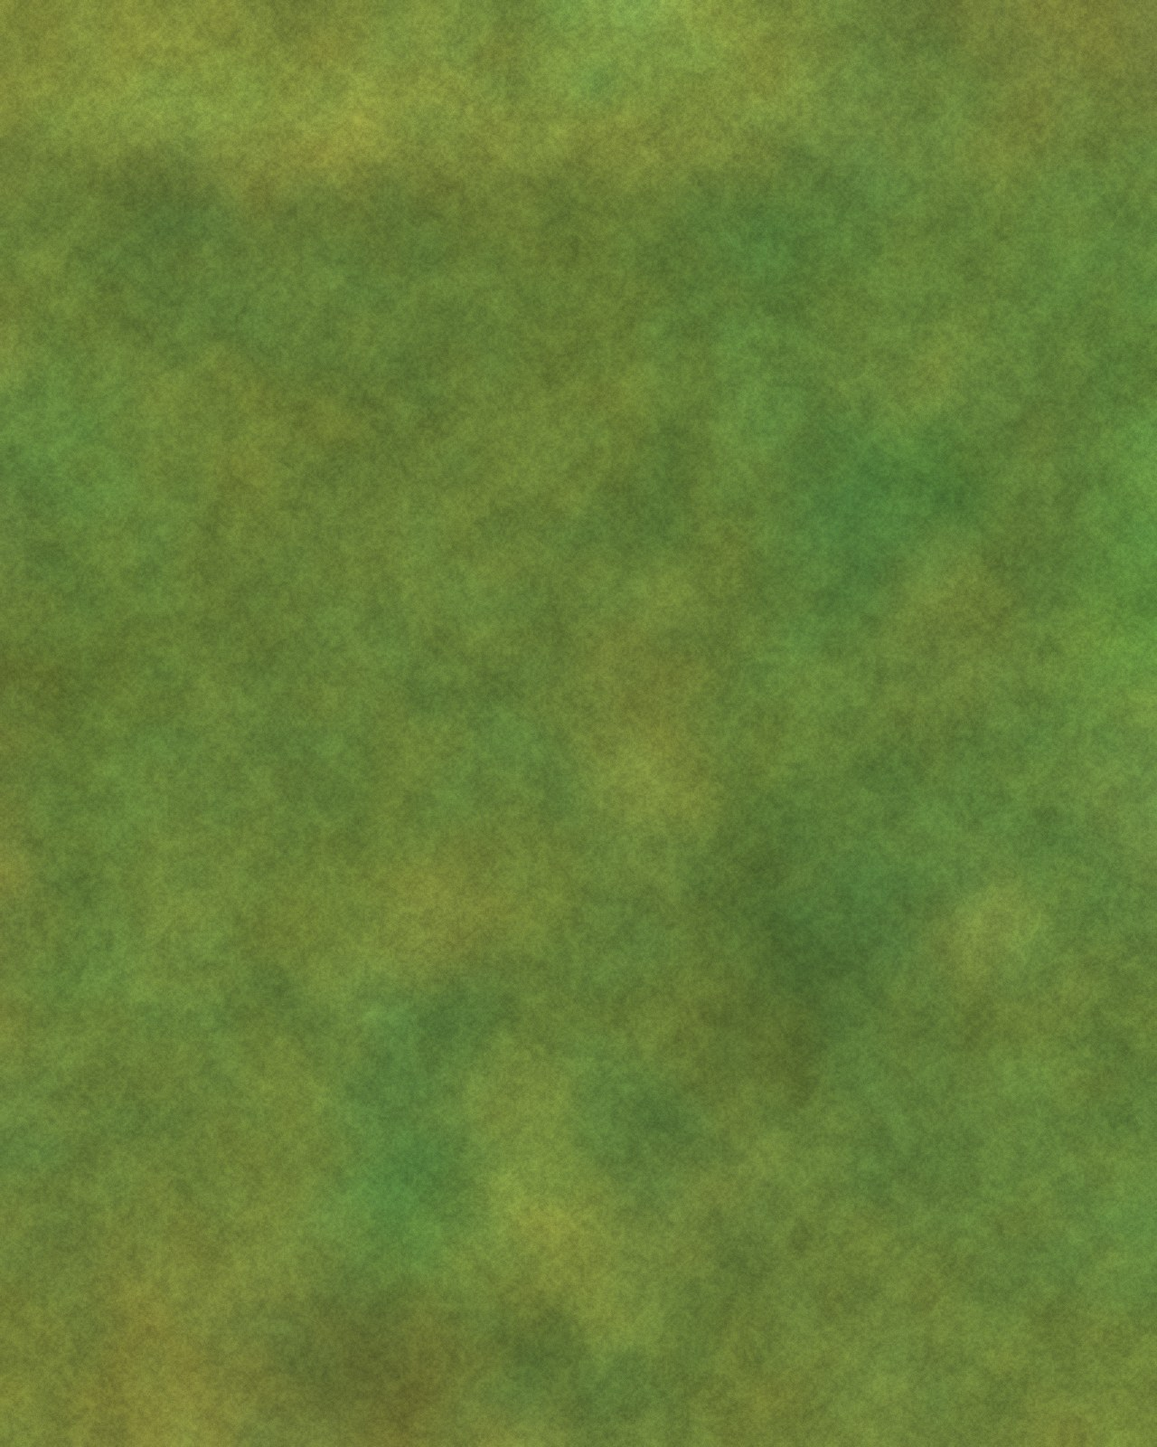
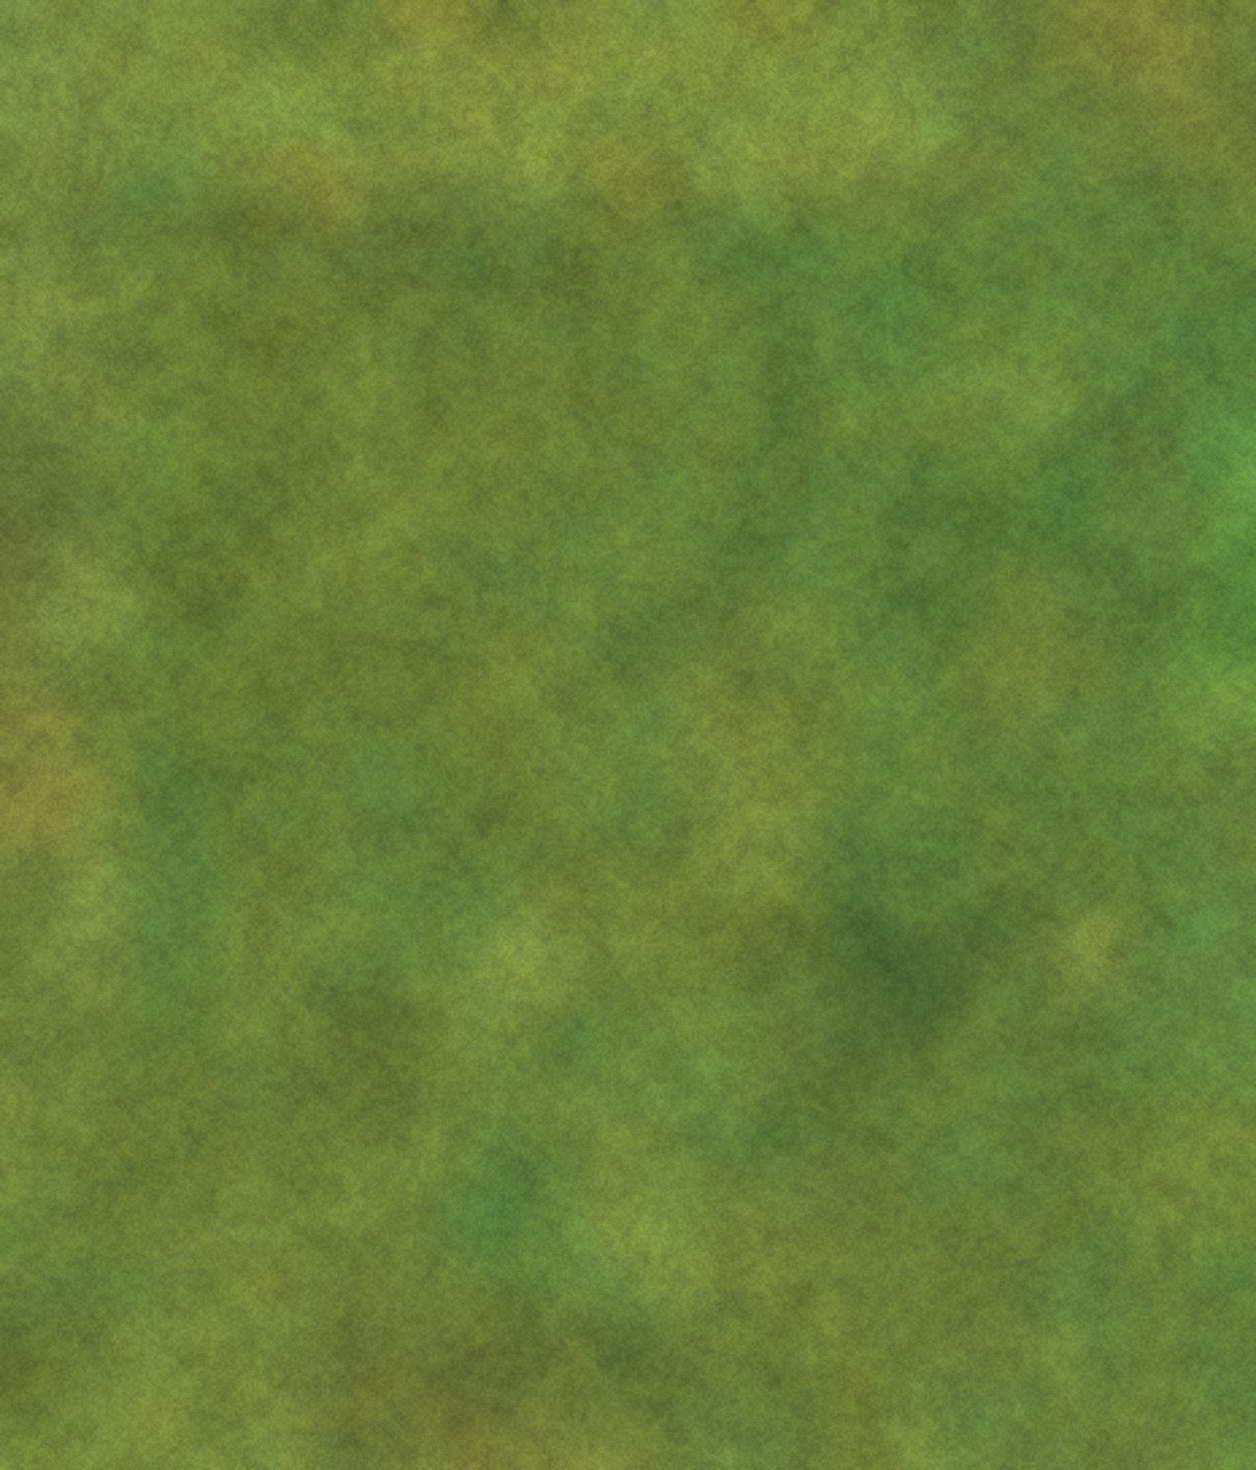
Integration pass: fenced bounds, seasonal items, ground depth fix, camera poses
- site.js: fenced area (plot.bounds) reaches 1.7 m west of the young thuja row and to the street
  edge in the north; hedge runs from the west fence; shed 0.5 m further west; trampoline is out
  May-September only; neighbour buildings and the utility pole repositioned; poses for
  IMG_4010, IMG_4011, IMG_4017, IMG_4008 re-solved from landmarks
- core/coords.js: plotBounds(), inSeason(); app and harness honour both
- world/ground.js: far plane lowered and subdivided (it showed through lawn and paving from
  some viewpoints), lawn covers the whole fenced area, warmer autumn lawn tint
- lawn.jpg re-baked for the fenced area; calmer autumn palette for context trees; duller roof
- tools/compare.sh: fix silent exit

Claude-Session: https://claude.ai/code/session_018SQ5Gm7poM5VkNRdJ4BirK

diff --git a/js/config/site.js b/js/config/site.js
@@ -17,7 +17,11 @@ const row = (id, n, X0, Y0, X1, Y1, h, extra = {}) =>
   });
 
 export const SITE = {
-  plot: { width: 20, depth: 25 },
+  // width × depth = the 20 × 25 m rectangle everything is measured in (X = 0 lies 0.5 m west of the young thuja row).
+  // bounds = the fenced area [X0, Y0, X1, Y1]: the west fence stands ≈1.7 m further west, behind a bare strip
+  // (seen in IMG_2873 and IMG_4017, and as the brown strip on the satellite); the north fence runs along the
+  // street edge ≈1.8 m behind the hedge (IMG_4008).
+  plot: { width: 20, depth: 25, bounds: [-1.7, 0, 20, 25.4] },
   northBearingOfY: 10.5,                     // true compass bearing of the plot's +Y axis, degrees
   geo: { lat: 50.011, lon: 21.007 },
   defaultTime: { month: 7, day: 3, hour: 12.5 },
@@ -46,24 +50,24 @@ export const SITE = {
   },
   shed: {
     // New garden shed/WC: wood-look vertical slats (warm brown), dark bitumen-shingle low hip roof, grey door on the SOUTH face.
-    rect: [16.9, 22.65, 18.7, 24.45], wallH: 2.2, roofH: 0.22, overhang: 0.14, doorFace: 'south',
+    rect: [16.4, 22.65, 18.2, 24.45], wallH: 2.2, roofH: 0.22, overhang: 0.14, doorFace: 'south',
   },
 
   // ---------------------------------------------------------------- fences (on the plot boundary)
   fences: [
-    { id: 'north', from: [0, 25], to: [20, 25], h: 1.6, type: 'net' },        // wire fence + dark-green privacy net, black steel posts
-    { id: 'east', from: [20, 0], to: [20, 25], h: 1.5, type: 'chainlink' },   // old rusty-brown chain-link, concrete posts
-    { id: 'southPanel', from: [0, 0], to: [13, 0], h: 1.5, type: 'panel' },   // modern anthracite welded-wire panels
+    { id: 'north', from: [-1.7, 25.4], to: [20, 25.4], h: 1.6, type: 'net' },        // wire fence + dark-green privacy net, black steel posts
+    { id: 'east', from: [20, 0], to: [20, 25.4], h: 1.5, type: 'chainlink' },   // old rusty-brown chain-link, concrete posts
+    { id: 'southPanel', from: [-1.7, 0], to: [13, 0], h: 1.5, type: 'panel' },   // modern anthracite welded-wire panels
     { id: 'southWood', from: [13, 0], to: [20, 0], h: 1.5, type: 'wood' },    // brown vertical-board fence behind the house
-    { id: 'west', from: [0, 0], to: [0, 25], h: 1.4, type: 'mesh' },          // light wire mesh, dark-green posts every 2.5 m
+    { id: 'west', from: [-1.7, 0], to: [-1.7, 25.4], h: 1.4, type: 'mesh' },          // light wire mesh, dark-green posts every 2.5 m
   ],
 
   // ---------------------------------------------------------------- surroundings (outside the fences, approximate)
   context: {
-    road: { Y0: 25.5, Y1: 32.5 },            // street along the north side (parallel to X), pavement + asphalt
+    road: { Y0: 25.5, Y1: 29.5 },            // narrow lane along the north side (parallel to X), pavement + asphalt
     buildings: [
-      { id: 'eastHouse', center: [27.5, 21], size: [7, 9], wallH: 3.2, roof: 'gable', ridgeAlong: 'Y', roofH: 2.6, wall: '#d9d4c7', roofColor: '#3d3f45' },
-      { id: 'seHouse', center: [24.2, -4.2], size: [7, 7], wallH: 3.0, roof: 'gable', ridgeAlong: 'X', roofH: 2.4, wall: '#efece4', roofColor: '#9a3b2e' },
+      { id: 'eastHouse', center: [28.5, 15.5], size: [8, 6], wallH: 3.0, roof: 'gable', ridgeAlong: 'X', roofH: 2.2, wall: '#d9d4c7', roofColor: '#3d3f45' },
+      { id: 'seHouse', center: [25.5, -5.5], size: [7, 7], wallH: 3.0, roof: 'gable', ridgeAlong: 'X', roofH: 2.4, wall: '#efece4', roofColor: '#9a3b2e' },
       { id: 'southShed', center: [5.5, -2.9], size: [3.2, 2.4], wallH: 2.1, roof: 'mono', roofH: 0.3, wall: '#3b2a22', roofColor: '#2b2b2e' },
       { id: 'southGazebo', center: [9.8, -3.7], size: [3, 3], wallH: 2.2, roof: 'gable', ridgeAlong: 'X', roofH: 0.8, wall: '#8b7a66', roofColor: '#d7dbd8', open: true },
       { id: 'swBarn', center: [2.9, -5.6], size: [5.2, 5.5], wallH: 2.6, roof: 'gable', ridgeAlong: 'Y', roofH: 1.0, wall: '#8d8f8c', roofColor: '#b9bec4' },
@@ -84,17 +88,18 @@ export const SITE = {
       { from: [20.9, 5.5], to: [21.3, 20.5], w: 1.6, h: 2.8, kind: 'wild' },       // overgrown shrubs behind the east chain-link
       { from: [-11, 25.6], to: [-0.6, 25.6], w: 0.9, h: 2.0, kind: 'clipped' },    // west neighbour's clipped hedge along the street
     ],
-    poles: [{ X: 19.4, Y: -1.6, h: 8 }],
+    poles: [{ X: 17.8, Y: -4.5, h: 8 }],
     // far skyline to the N–NNW: pale apartment blocks ~300 m away, plus a tree line all around.
     skyline: { blocksBearing: [330, 350, 8], distance: 320 },
   },
 
   // ---------------------------------------------------------------- what stands on the plot today
   // Catalogue items (plants + furniture). `h` = present height in metres (plants: converted to an age).
+  // `months: [from, to]` = the item is only out during those months (seasonal furniture).
   // `rot` = plot bearing of the item's front. These are ordinary planner items the user can move or delete.
   existingItems: [
-    // thuja hedge along the north side, 1.4 m inside the fence, ~2.5 m tall, crowns touching
-    ...row('thuja_smaragd', 24, 0.7, 23.6, 16.35, 23.6, 2.5, { tag: 'hedgeNorth' }),
+    // thuja hedge along the north side from the west fence to the shed, 1.4 m inside the fence, ~2.5 m tall, crowns touching
+    ...row('thuja_smaragd', 26, -1.3, 23.6, 15.7, 23.6, 2.5, { tag: 'hedgeNorth' }),
     // young thujas along the west fence
     ...row('thuja_smaragd', 32, 0.5, 2.2, 0.5, 22.4, 0.75, { tag: 'rowWest' }),
     // young thujas along the south fence (west part)
@@ -128,19 +133,19 @@ export const SITE = {
     { id: 'picnic_table', X: 10.5, Y: 3.0, rot: 90 },       // long axis north–south
     { id: 'tripod_grill', X: 8.8, Y: 3.8, rot: 0 },
     { id: 'concrete_bin', X: 13.25, Y: 7.85, rot: 0 },      // on the NW corner of the terrace
-    { id: 'trampoline', X: 15.2, Y: 11.8, rot: 0 },         // Ø 3 m; seen on the satellite and in the July photos
+    { id: 'trampoline', X: 15.2, Y: 11.8, rot: 0, months: [5, 9] },   // Ø 3 m; out in summer (satellite, July photos), stored away by late October
   ],
 
   // ---------------------------------------------------------------- reference photos (assets/photos/<id>.jpg)
   // Camera poses are estimates (GPS ±4 m, compass ±15°) refined by eye. hfov/vfov are for the photo as displayed.
   photos: [
-    { id: 'IMG_4010', X: 16.0, Y: 5.3, eye: 1.55, heading: 336, pitch: -14, hfov: 104.25, vfov: 81.2, when: { month: 10, day: 31, hour: 13.3 }, title: 'Від будиночка на північ: газон, туї, сарайчик' },
-    { id: 'IMG_4017', X: 0.3, Y: 22.8, eye: 1.55, heading: 124, pitch: -7, hfov: 104.25, vfov: 81.2, when: { month: 10, day: 31, hour: 13.3 }, title: 'З північно-західного кута на будиночок' },
+    { id: 'IMG_4010', X: 18.4, Y: 5.4, eye: 1.55, heading: 321, pitch: -14, hfov: 104.25, vfov: 81.2, when: { month: 10, day: 31, hour: 13.3 }, title: 'Від будиночка на північ: газон, туї, сарайчик' },
+    { id: 'IMG_4017', X: -1.1, Y: 22.7, eye: 1.55, heading: 119, pitch: -7, hfov: 104.25, vfov: 81.2, when: { month: 10, day: 31, hour: 13.3 }, title: 'З північно-західного кута на будиночок' },
     { id: 'IMG_4013', X: 12.3, Y: 1.1, eye: 1.55, heading: 334, pitch: -10, hfov: 104.25, vfov: 81.2, when: { month: 10, day: 31, hour: 13.3 }, title: 'Стіл для пікніка і газон' },
     { id: 'IMG_4015', X: 15.0, Y: 6.6, eye: 1.55, heading: 258, pitch: -12, hfov: 104.25, vfov: 81.2, when: { month: 10, day: 31, hour: 13.3 }, title: 'З бруківки на захід: сад і грядки' },
-    { id: 'IMG_4011', X: 11.3, Y: 1.5, eye: 1.55, heading: 68, pitch: -8, hfov: 104.25, vfov: 81.2, when: { month: 10, day: 31, hour: 13.3 }, title: 'Будиночок і гойдалка із заходу' },
+    { id: 'IMG_4011', X: 10.2, Y: 0.6, eye: 1.55, heading: 59, pitch: -8, hfov: 104.25, vfov: 81.2, when: { month: 10, day: 31, hour: 13.3 }, title: 'Будиночок і гойдалка із заходу' },
     { id: 'IMG_4009', X: 18.6, Y: 13.2, eye: 1.55, heading: 187, pitch: -9, hfov: 53.13, vfov: 73.74, when: { month: 10, day: 31, hour: 13.3 }, title: 'Доріжка до будиночка' },
-    { id: 'IMG_4008', X: 19.3, Y: 24.2, eye: 1.55, heading: 228, pitch: -18, hfov: 104.25, vfov: 81.2, when: { month: 10, day: 31, hour: 13.3 }, title: 'Сарайчик з північно-східного кута' },
+    { id: 'IMG_4008', X: 19.75, Y: 25.05, eye: 1.55, heading: 232, pitch: -10, hfov: 104.25, vfov: 81.2, when: { month: 10, day: 31, hour: 13.3 }, title: 'Сарайчик з північно-східного кута' },
     { id: 'IMG_4012', X: 12.6, Y: 1.4, eye: 1.55, heading: 298, pitch: -16, hfov: 81.2, vfov: 104.25, when: { month: 10, day: 31, hour: 13.3 }, title: 'Сад уздовж південного паркану' },
     { id: 'IMG_3846', X: 12.9, Y: 6.2, eye: 1.5, heading: 15, pitch: 0, hfov: 26.3, vfov: 17.7, when: { month: 10, day: 16, hour: 15.95 }, title: 'Сарайчик і туї (телеоб\'єктив)' },
     { id: 'IMG_2863', X: 12.9, Y: 3.0, eye: 1.55, heading: 259, pitch: -18, hfov: 81.2, vfov: 104.25, when: { month: 7, day: 3, hour: 12.25 }, title: 'Літо: стіл і вишні' },

diff --git a/js/world/ground.js b/js/world/ground.js
@@ -91,15 +91,21 @@ export function createGround({ site, lawnTex, contextTex, quality, maxAniso }) {
 
   // far plane (fades into fog / horizon)
   const farMat = new THREE.MeshStandardMaterial({ color: new THREE.Color(FAR_GROUND), roughness: 1 });
-  const far = plane(2000, 2000, PW / 2, -0.03, -PD / 2, farMat);
+  // Kept well below the other layers and subdivided: one giant quad 3 cm under the lawn lost depth precision
+  // and showed through the lawn and paving from some viewpoints.
+  const far = new THREE.Mesh(new THREE.PlaneGeometry(2000, 2000, 24, 24), farMat);
+  far.rotation.x = -Math.PI / 2;
+  far.position.set(PW / 2, -0.25, -PD / 2);
   far.receiveShadow = false;
   group.add(far);
 
   // satellite context (X −12…26, Y −11…34)
+  let context = null;
   if (contextTex) {
     contextTex.anisotropy = Math.min(8, maxAniso);
     const ctxMat = new THREE.MeshStandardMaterial({ map: contextTex, roughness: 1 });
-    group.add(plane(CTX.X1 - CTX.X0, CTX.Y1 - CTX.Y0, (CTX.X0 + CTX.X1) / 2, -0.015, -(CTX.Y0 + CTX.Y1) / 2, ctxMat));
+    context = plane(CTX.X1 - CTX.X0, CTX.Y1 - CTX.Y0, (CTX.X0 + CTX.X1) / 2, -0.015, -(CTX.Y0 + CTX.Y1) / 2, ctxMat);
+    group.add(context);
   }
 
   // lawn with world-space micro detail
@@ -120,7 +126,9 @@ export function createGround({ site, lawnTex, contextTex, quality, maxAniso }) {
         float dC = texture2D(detailTex, vWXZ * 7.1 + 0.77).r;
         diffuseColor.rgb *= (1.0 + (dA - 0.5) * 1.5) * (1.0 + (dB - 0.5) * 0.9) * (1.0 + (dC - 0.5) * 1.7);`);
   };
-  const lawn = plane(PW, PD, PW / 2, 0, -PD / 2, lawnMat);
+  // the lawn covers the whole fenced area (site.plot.bounds); lawn.jpg is baked for exactly that rectangle
+  const [BX0, BY0, BX1, BY1] = site.plot.bounds || [0, 0, PW, PD];
+  const lawn = plane(BX1 - BX0, BY1 - BY0, (BX0 + BX1) / 2, 0, -(BY0 + BY1) / 2, lawnMat);
   group.add(lawn);
 
   // soil / sand strips
@@ -147,10 +155,10 @@ export function createGround({ site, lawnTex, contextTex, quality, maxAniso }) {
   }
 
   const TINT = {
-    spring: [1.0, 1.08, 1.0], summer: [1.05, 1.05, 1.05], autumn: [1.2, 1.0, 1.7], winter: [0.95, 0.95, 1.0],
+    spring: [1.0, 1.08, 1.0], summer: [1.05, 1.05, 1.05], autumn: [1.32, 1.12, 1.15], winter: [0.95, 0.95, 1.0],
   };
   return {
-    group, lawn,
+    group, lawn, context,
     setSeason(season) { const t = TINT[season] || TINT.summer; lawnMat.color.setRGB(t[0], t[1], t[2]); },
     setOverlay(opacity) {
       if (!overlay) return;

diff --git a/js/app/views/plan.js b/js/app/views/plan.js
@@ -1,6 +1,7 @@
 // Plan view: orthographic top-down, north (plot +Y) up; own pan/zoom; optional 1 m grid.
 import * as THREE from '../../lib/three.js';
 import { SITE } from '../../config/site.js';
+import { plotBounds } from '../../core/coords.js';
 
 export function createPlan({ canvas, scene }) {
   const camera = new THREE.OrthographicCamera(-10, 10, 10, -10, 0.1, 600);
@@ -12,8 +13,9 @@ export function createPlan({ canvas, scene }) {
 
   // grid
   const pts = [];
-  for (let x = 0; x <= SITE.plot.width; x++) pts.push(x, 0.06, 0, x, 0.06, -SITE.plot.depth);
-  for (let y = 0; y <= SITE.plot.depth; y++) pts.push(0, 0.06, -y, SITE.plot.width, 0.06, -y);
+  const B = plotBounds();
+  for (let x = Math.ceil(B.minX); x <= B.maxX; x++) pts.push(x, 0.06, -B.minY, x, 0.06, -B.maxY);
+  for (let y = Math.ceil(B.minY); y <= B.maxY; y++) pts.push(B.minX, 0.06, -y, B.maxX, 0.06, -y);
   const gg = new THREE.BufferGeometry();
   gg.setAttribute('position', new THREE.Float32BufferAttribute(pts, 3));
   const gm = new THREE.LineBasicMaterial({ color: 0xffffff, transparent: true, opacity: 0.45, depthWrite: false });

diff --git a/dev/view.js b/dev/view.js
@@ -13,7 +13,7 @@
 // Sets window.__READY = true once everything is loaded and one frame is rendered; errors go to #err.
 import * as THREE from '../js/lib/three.js';
 import { SITE } from '../js/config/site.js';
-import { poseCamera, fovToContainPhoto, bearingToYaw } from '../js/core/coords.js';
+import { poseCamera, fovToContainPhoto, bearingToYaw, inSeason } from '../js/core/coords.js';
 import { sunPosition, seasonOfMonth } from '../js/core/sun.js';
 import { createRenderer } from '../js/core/renderer.js';
 import { loadCatalog, createItemObject, ageForHeight, getDef } from '../js/items/registry.js';
@@ -97,6 +97,7 @@ async function main() {
     itemsGroup.name = 'items';
     SITE.existingItems.forEach((it, i) => {
       if (only && it.tag !== only && it.id !== only) return;
+      if (!inSeason(it, when.month)) return;
       const def = getDef(it.id);
       const age = def?.kind === 'plant' ? ageForHeight(it.id, it.h ?? 1) + year : 0;
       const obj = createItemObject(it.id, { age, season, seed: i + 1 });

diff --git a/js/app/app.js b/js/app/app.js
@@ -3,7 +3,7 @@ import * as THREE from '../lib/three.js';
 import { SITE } from '../config/site.js';
 import { createRenderer } from '../core/renderer.js';
 import { sunPosition, seasonOfMonth } from '../core/sun.js';
-import { poseCamera } from '../core/coords.js';
+import { poseCamera, plotBounds } from '../core/coords.js';
 import { loadCatalog, getDef } from '../items/registry.js';
 import { createState, initialItems } from './state.js';
 import { loadSaved, save, loadFlag } from './storage.js';
@@ -168,7 +168,8 @@ export async function startApp() {
   app.duplicate = (uid) => {
     const it = state.find(uid);
     if (!it) return null;
-    const n = app.place(it.id, Math.min(SITE.plot.width - 0.1, it.X + 0.6), Math.min(SITE.plot.depth - 0.1, it.Y + 0.6), { rot: it.rot, age0: it.age0 });
+    const B = plotBounds();
+    const n = app.place(it.id, Math.min(B.maxX - 0.1, it.X + 0.6), Math.min(B.maxY - 0.1, it.Y + 0.6), { rot: it.rot, age0: it.age0 });
     state.select(n);
     return n;
   };

diff --git a/js/app/ui/misc.js b/js/app/ui/misc.js
@@ -1,6 +1,6 @@
 import { h, icon, openDialog } from '../dom.js';
 import { SITE } from '../../config/site.js';
-import { plotToTrueBearing } from '../../core/coords.js';
+import { plotToTrueBearing, plotBounds } from '../../core/coords.js';
 import { saveFlag } from '../storage.js';
 
 export function createCompass(app) {
@@ -29,7 +29,7 @@ export function createPlanTools(app) {
   read.textContent = 'Наведіть курсор на ділянку';
   return {
     show(v) { root.hidden = !v; read.hidden = !v; },
-    readout(p) { read.textContent = p ? `${p.X.toFixed(1)} м від західного паркану, ${p.Y.toFixed(1)} м від південного` : 'Наведіть курсор на ділянку'; },
+    readout(p) { read.textContent = p ? `${(p.X - plotBounds().minX).toFixed(1)} м від західного паркану, ${(p.Y - plotBounds().minY).toFixed(1)} м від південного` : 'Наведіть курсор на ділянку'; },
   };
 }
 

diff --git a/js/app/interaction.js b/js/app/interaction.js
@@ -1,7 +1,7 @@
 // Pointer interaction on the canvas: placement mode, picking, dragging, move mode, plus the selection highlight.
 import * as THREE from '../lib/three.js';
 import { SITE } from '../config/site.js';
-import { bearingToYaw } from '../core/coords.js';
+import { bearingToYaw, plotBounds } from '../core/coords.js';
 import { seasonOfMonth } from '../core/sun.js';
 import { createItemObject, getDef, itemSizeAt } from '../items/registry.js';
 
@@ -67,7 +67,8 @@ export function createInteraction(app) {
     if (!p) return null;
     return { X: p.x, Y: -p.z };
   }
-  const clampPlot = (p) => ({ X: Math.min(SITE.plot.width - 0.1, Math.max(0.1, p.X)), Y: Math.min(SITE.plot.depth - 0.1, Math.max(0.1, p.Y)) });
+  const B = plotBounds();
+  const clampPlot = (p) => ({ X: Math.min(B.maxX - 0.1, Math.max(B.minX + 0.1, p.X)), Y: Math.min(B.maxY - 0.1, Math.max(B.minY + 0.1, p.Y)) });
 
   function conflict(def, X, Y) {
     const sp = def.minSpacing ?? def.matureWidth ?? 1;

diff --git a/js/app/views/walk.js b/js/app/views/walk.js
@@ -1,6 +1,6 @@
 // First-person walk view: WASD/arrows + drag look + touch joystick, with collisions.
 import { SITE } from '../../config/site.js';
-import { poseCamera } from '../../core/coords.js';
+import { poseCamera, plotBounds } from '../../core/coords.js';
 import { h } from '../dom.js';
 
 const R = 0.25;
@@ -116,7 +116,7 @@ export function createWalk({ camera, canvas, uiRoot, world, getColliders }) {
         for (let i = 0; i < 3; i++) {
           for (const c of world?.colliders || []) if (c.type === 'box' && c.h >= 0.4) pushBox(pos, c.minX, c.minY, c.maxX, c.maxY);
           for (const c of getColliders()) { if (c.type === 'circle') pushCircle(pos, c.X, c.Y, c.r); else pushObb(pos, c); }
-          pos.X = clamp(pos.X, 0.3, SITE.plot.width - 0.3); pos.Y = clamp(pos.Y, 0.3, SITE.plot.depth - 0.3);
+          const B = plotBounds(); pos.X = clamp(pos.X, B.minX + 0.3, B.maxX - 0.3); pos.Y = clamp(pos.Y, B.minY + 0.3, B.maxY - 0.3);
         }
       }
       apply();

diff --git a/js/app/ui/properties.js b/js/app/ui/properties.js
@@ -1,4 +1,5 @@
 import { h, icon } from '../dom.js';
+import { plotBounds } from '../../core/coords.js';
 import { getDef, itemSizeAt } from '../../items/registry.js';
 import { sizeText } from './catalog.js';
 
@@ -65,7 +66,7 @@ export function createProperties(app) {
     if (plant) r.ageVal.textContent = `${f1(it.age0)} р.`;
     if (document.activeElement !== r.rot) r.rot.value = Math.round(((it.rot % 360) + 360) % 360);
     r.rotVal.textContent = `${Math.round(((it.rot % 360) + 360) % 360)}°`;
-    kv(r.dist, [['До західного паркану', `${f1(it.X)} м`], ['До південного', `${f1(it.Y)} м`]]);
+    kv(r.dist, [['До західного паркану', `${f1(it.X - plotBounds().minX)} м`], ['До південного', `${f1(it.Y - plotBounds().minY)} м`]]);
     r.move.setAttribute('aria-pressed', String(app.interaction.moving));
   }
   state.on((reason) => { if (reason !== 'time') refresh(); });

diff --git a/js/app/items.js b/js/app/items.js
@@ -1,6 +1,6 @@
 // Builds and keeps the 3D objects for state.items; derives walking colliders.
 import * as THREE from '../lib/three.js';
-import { bearingToYaw } from '../core/coords.js';
+import { bearingToYaw, inSeason } from '../core/coords.js';
 import { seasonOfMonth } from '../core/sun.js';
 import { createItemObject, getDef, itemSizeAt } from '../items/registry.js';
 
@@ -26,6 +26,11 @@ export function createItems({ scene, state, renderer }) {
       seen.add(it.uid);
       const def = getDef(it.id);
       if (!def) continue;
+      if (!inSeason(it, month)) {            // seasonal item that is stored away this month
+        const gone = entries.get(it.uid);
+        if (gone) { group.remove(gone.holder); entries.delete(it.uid); }
+        continue;
+      }
       const isPlant = def.kind === 'plant';
       const age = isPlant ? q(ageOf(it)) : 0;
       const key = isPlant ? `${it.id}|${age}|${season}|${month}` : it.id;

diff --git a/js/app/state.js b/js/app/state.js
@@ -14,6 +14,7 @@ export function initialItems() {
       rot: it.rot ?? Math.round(((i * 137.5) % 360) * 10) / 10,
       age0: def?.kind === 'plant' ? +ageForHeight(it.id, it.h ?? 1).toFixed(2) : 0,
       existing: true,
+      ...(it.months ? { months: it.months } : {}),
     };
   });
 }
@@ -103,6 +104,7 @@ export function createState() {
         if (!it || !getDef(it.id)) continue;
         const o = { uid: String(it.uid || ('i' + items.length)), id: it.id, X: num(it.X, 10), Y: num(it.Y, 10), rot: num(it.rot, 0), age0: Math.max(0, num(it.age0, 0)) };
         if (it.existing) o.existing = true;
+        if (Array.isArray(it.months) && it.months.length === 2) o.months = it.months.map(Number);
         items.push(o);
       }
       s.undoStack.length = 0; s.redoStack.length = 0;

diff --git a/js/core/coords.js b/js/core/coords.js
@@ -14,6 +14,19 @@
 import * as THREE from '../lib/three.js';
 import { SITE } from '../config/site.js';
 
+/** Fenced area in plot metres. The measuring rectangle is 0…width × 0…depth; fences may lie outside it. */
+export function plotBounds() {
+  const [minX, minY, maxX, maxY] = SITE.plot.bounds || [0, 0, SITE.plot.width, SITE.plot.depth];
+  return { minX, minY, maxX, maxY };
+}
+
+/** Is a seasonal item (`months: [from, to]`) out in the given month? Items without `months` always are. */
+export function inSeason(item, month) {
+  const m = item.months;
+  if (!m) return true;
+  return m[0] <= m[1] ? month >= m[0] && month <= m[1] : month >= m[0] || month <= m[1];
+}
+
 export function toWorld(X, Y, h = 0, out = new THREE.Vector3()) {
   return out.set(X, h, -Y);
 }
